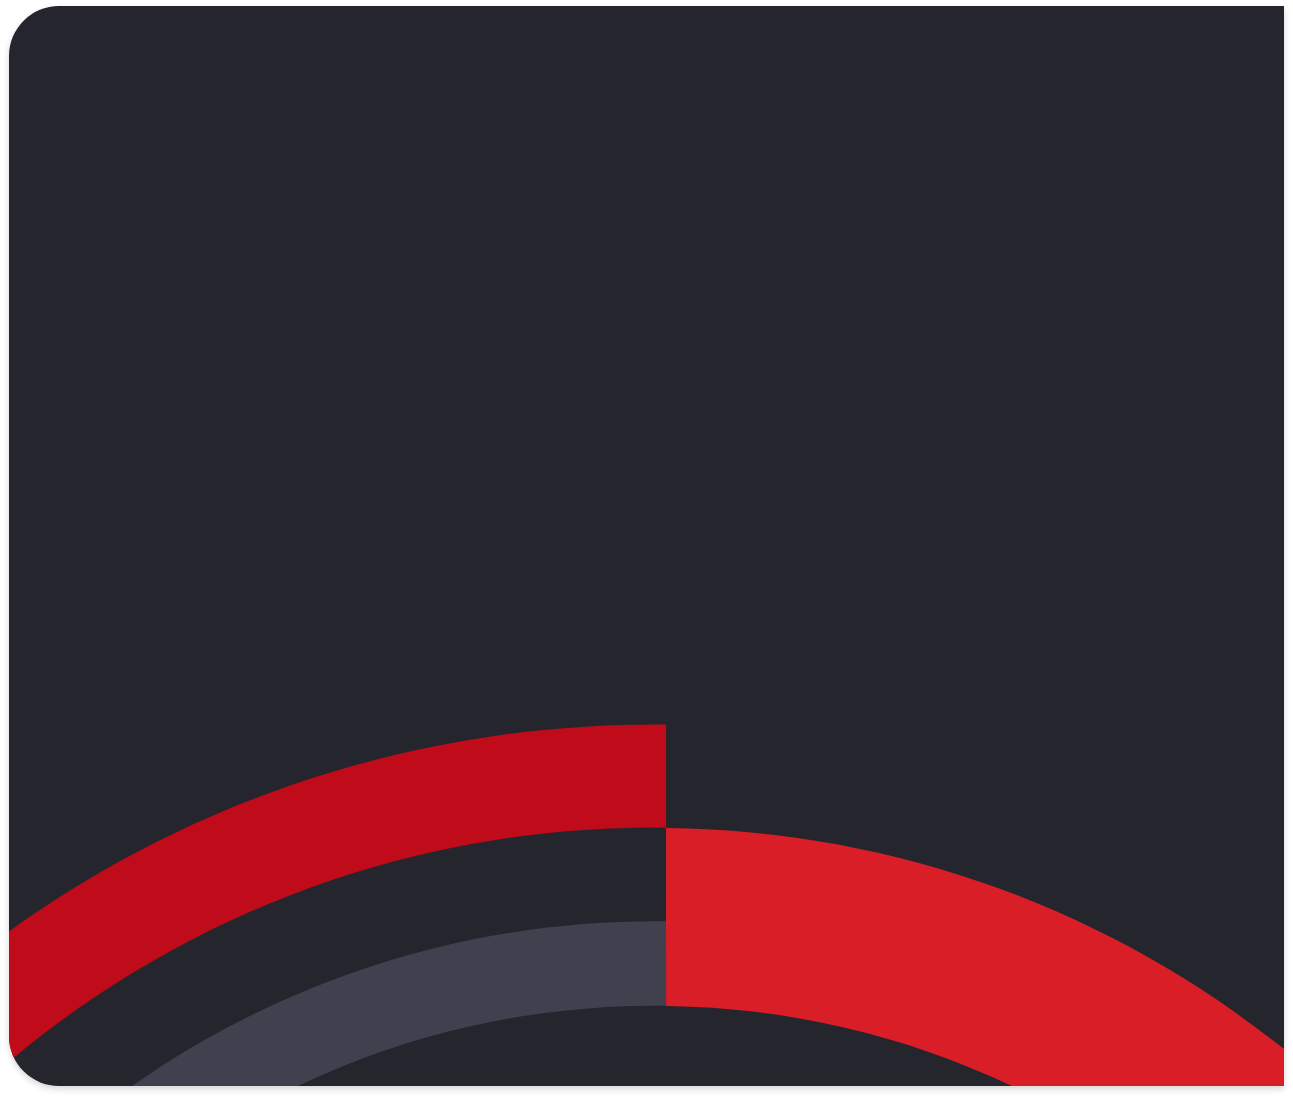
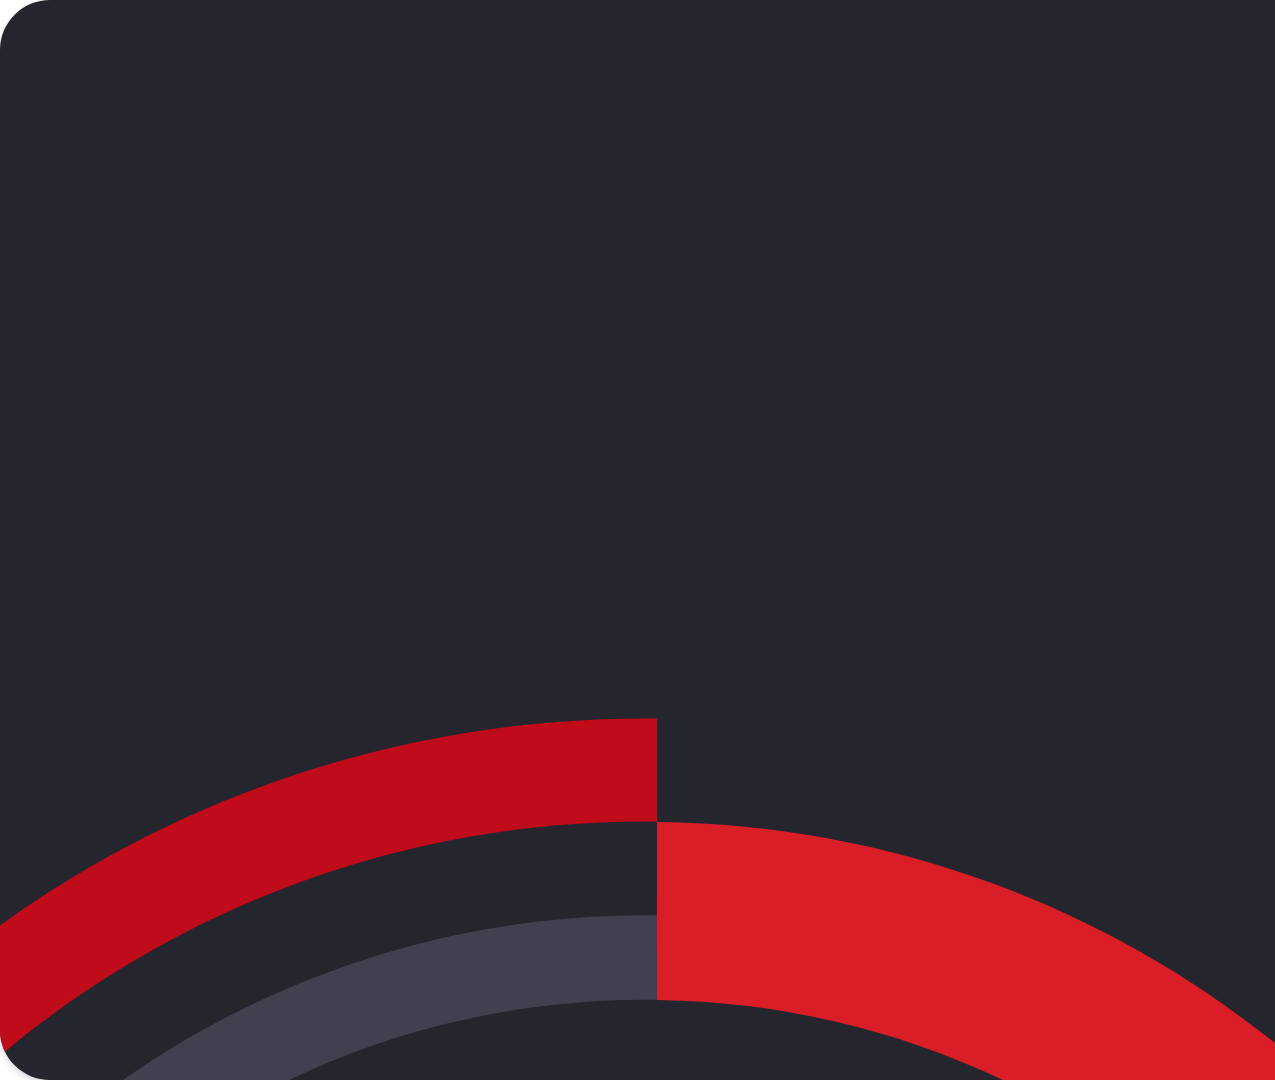
integrates\feat(front): #8225 update login view
- add resources
- add imports and exports to index in resources folder
- edit input variant in button component
- add new variant in tag component

diff --git a/integrates/front/src/components/Tag/index.tsx b/integrates/front/src/components/Tag/index.tsx
@@ -1,6 +1,6 @@
 import styled from "styled-components";
 
-type TVariant = "blue" | "gray" | "green" | "orange" | "red";
+type TVariant = "blue" | "gray" | "green" | "orange" | "red" | "redNoBd";
 
 interface ITagProps {
   variant: TVariant;
@@ -36,6 +36,11 @@ const variants: Record<TVariant, IVariant> = {
   red: {
     bgColor: "#fdd8da",
     borderColor: "#bf0b1a",
+    color: "#bf0b1a",
+  },
+  redNoBd: {
+    bgColor: "#fdd8da",
+    borderColor: "#fdd8da",
     color: "#bf0b1a",
   },
 };

diff --git a/integrates/front/src/resources/index.tsx b/integrates/front/src/resources/index.tsx
@@ -6,6 +6,7 @@ import loginLogo from "./loginLogo.png";
 import loginMicrosoftLogo from "./loginMicrosoftLogo.png";
 import loginNewFeat from "./loginNewFeat.png";
 import lotScan from "./scan.json";
+import signUpBGR from "./SignUpBGR.png";
 
 export {
   lotCircleXMark,
@@ -16,4 +17,5 @@ export {
   loginGoogleLogo,
   loginMicrosoftLogo,
   loginBitBucketLogo,
+  signUpBGR,
 };

diff --git a/integrates/front/src/components/Button/styles.ts b/integrates/front/src/components/Button/styles.ts
@@ -74,9 +74,9 @@ const variants: Record<TVariant, IVariant> = {
   },
   input: {
     bgColor: "transparent",
-    bgColorHover: "#d2d2da",
+    bgColorHover: "#f4f4f6",
     borderColor: "#d2d2da",
-    borderRadius: 0,
+    borderRadius: 5,
     borderSize: 1,
     color: "#121216",
     colorHover: "#fff",
